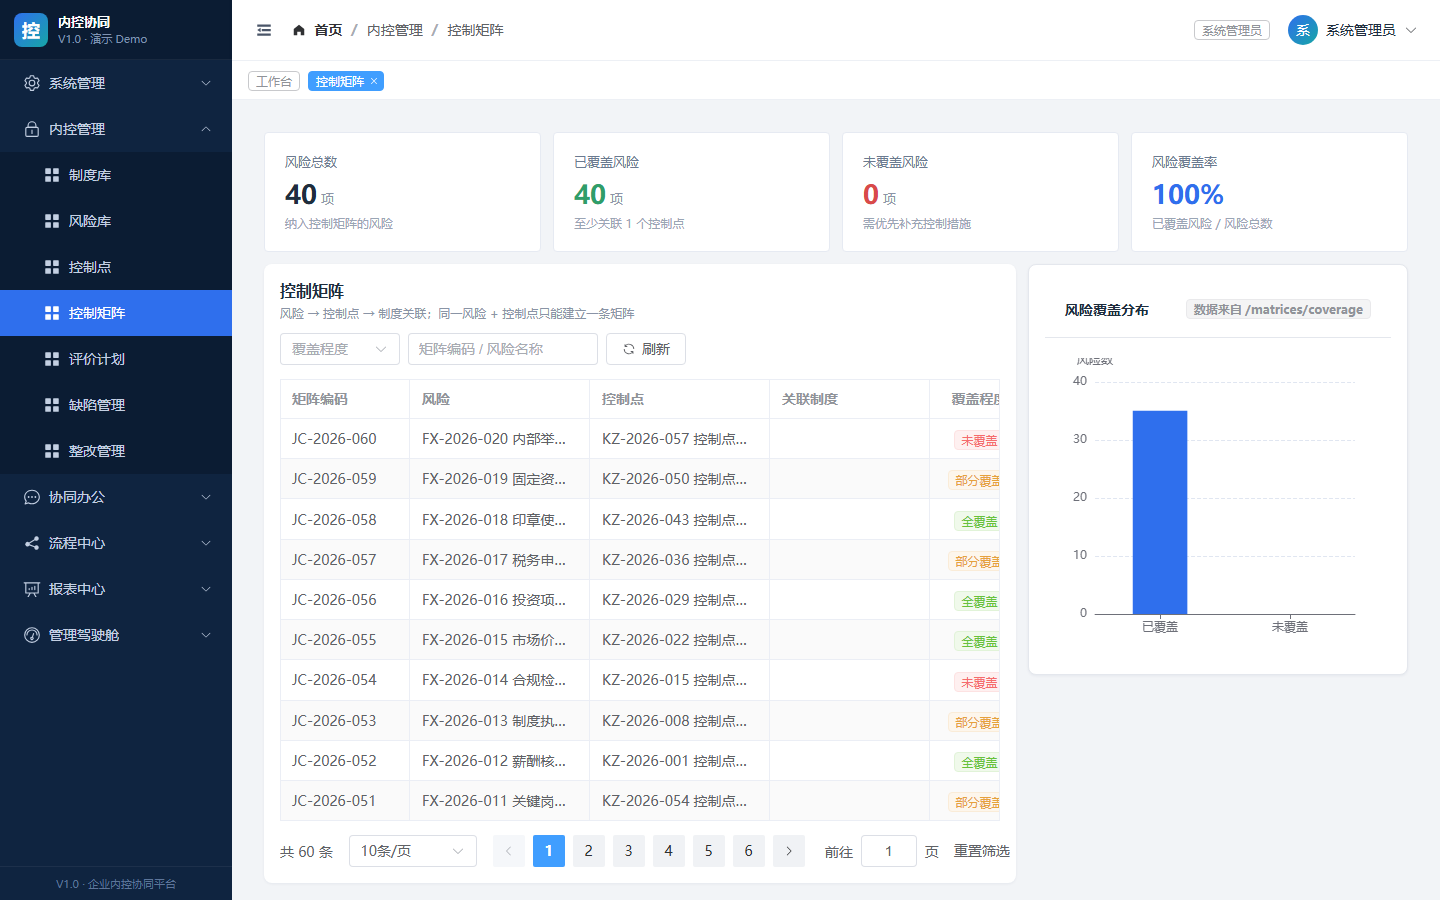
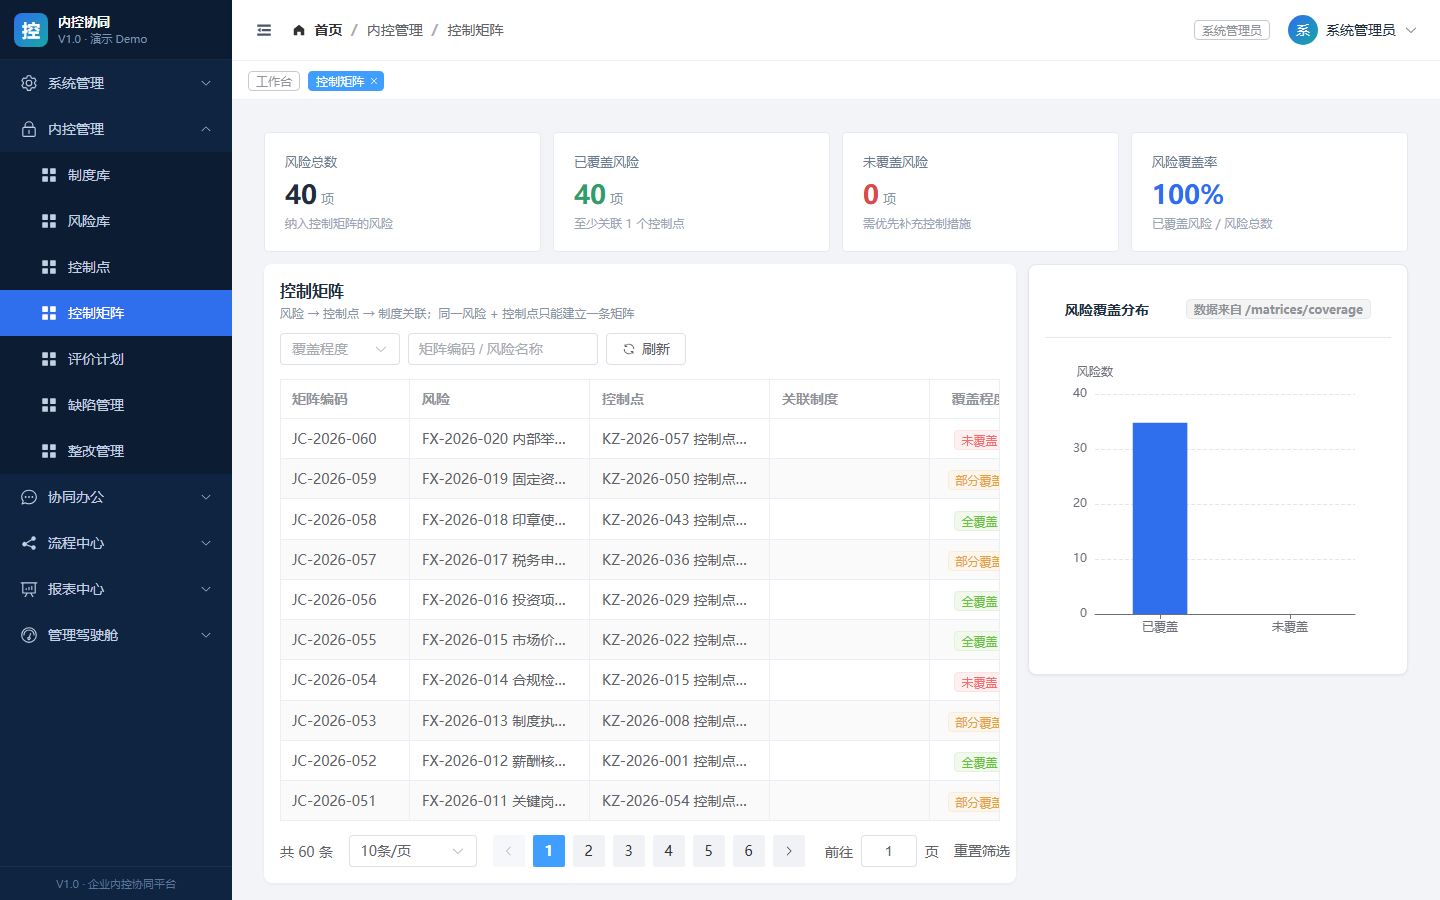
fix(ui): 侧栏菜单图标显式 18px 盒模型防尺寸塌陷；ECharts grid 抬高+legend 居中修重叠；E03 增图标断言并重出 28 张截图

diff --git a/frontend/src/layout/components/Sidebar.vue b/frontend/src/layout/components/Sidebar.vue
@@ -53,7 +53,7 @@ function handleSelect(path: string): void {
         <template v-for="item in menus" :key="item.id">
           <el-sub-menu v-if="isDirectoryMenu(item)" :index="`group-${item.id}`">
             <template #title>
-              <el-icon><component :is="resolveIcon(item.icon)" /></el-icon>
+              <el-icon class="menu-icon"><component :is="resolveIcon(item.icon)" /></el-icon>
               <span>{{ item.name }}</span>
             </template>
             <el-menu-item
@@ -61,12 +61,12 @@ function handleSelect(path: string): void {
               :key="child.id"
               :index="normalizePath(child.path)"
             >
-              <el-icon><component :is="resolveIcon(child.icon)" /></el-icon>
+              <el-icon class="menu-icon"><component :is="resolveIcon(child.icon)" /></el-icon>
               <template #title>{{ child.name }}</template>
             </el-menu-item>
           </el-sub-menu>
           <el-menu-item v-else :index="normalizePath(item.path)">
-            <el-icon><component :is="resolveIcon(item.icon)" /></el-icon>
+            <el-icon class="menu-icon"><component :is="resolveIcon(item.icon)" /></el-icon>
             <template #title>{{ item.name }}</template>
           </el-menu-item>
         </template>
@@ -149,6 +149,30 @@ function handleSelect(path: string): void {
 
 .sidebar-menu {
   border-right: none;
+}
+
+/* 菜单图标：显式给定盒模型，避免主题/浏览器差异下 el-icon 尺寸塌陷导致“图标不显示” */
+.sidebar-menu :deep(.el-icon.menu-icon) {
+  display: inline-flex;
+  flex: 0 0 18px;
+  align-items: center;
+  justify-content: center;
+  width: 18px;
+  height: 18px;
+  margin-right: 10px;
+  font-size: 18px;
+  line-height: 18px;
+  color: inherit;
+}
+
+.sidebar-menu :deep(.el-icon.menu-icon svg) {
+  width: 18px;
+  height: 18px;
+  fill: currentColor;
+}
+
+.sidebar-menu.el-menu--collapse :deep(.el-icon.menu-icon) {
+  margin-right: 0;
 }
 
 .sidebar-menu:not(.el-menu--collapse) {

diff --git a/e2e/tests/e03-menus.spec.ts b/e2e/tests/e03-menus.spec.ts
@@ -40,6 +40,23 @@ for (const { role, expectedMenus, systemChildren, systemExcluded } of ROLES) {
     // 侧栏页脚应为与阶段无关的产品标识
     await expect(page.locator('.sidebar-footer')).toContainText('V1.0');
 
+    // 每个顶级菜单图标都必须真实渲染（svg 尺寸 > 0），防止“图标不显示”样式回归
+    const iconSizes = await page
+      .locator('.sidebar-menu > li > .el-sub-menu__title .el-icon.menu-icon, .sidebar-menu > li > .el-menu-item .el-icon.menu-icon')
+      .evaluateAll((els) =>
+        els.map((el) => {
+          const svg = el.querySelector('svg');
+          const rect = svg?.getBoundingClientRect();
+          return { hasSvg: !!svg, width: rect?.width ?? 0, height: rect?.height ?? 0 };
+        })
+      );
+    expect(iconSizes.length, `${role} 顶级菜单图标数量应等于顶级目录数`).toBe(expectedMenus);
+    for (const [index, icon] of iconSizes.entries()) {
+      expect(icon.hasSvg, `${role} 第 ${index + 1} 个顶级菜单图标应渲染 svg`).toBeTruthy();
+      expect(icon.width, `${role} 第 ${index + 1} 个菜单图标宽度`).toBeGreaterThan(10);
+      expect(icon.height, `${role} 第 ${index + 1} 个菜单图标高度`).toBeGreaterThan(10);
+    }
+
     if (systemExcluded?.length) {
       for (const name of systemExcluded) {
         expect(menuText, `${role} 侧栏不应出现「${name}」`).not.toContain(name);

diff --git a/frontend/src/views/report/defect.vue b/frontend/src/views/report/defect.vue
@@ -49,9 +49,9 @@ function renderDefectChart(): void {
   if (!chart) chart = echarts.init(chartRef.value)
   const statuses = gradeStatus.value
   const option: EChartsOption = {
-    grid: { left: 44, right: 20, top: 44, bottom: 40 },
+    grid: { left: 44, right: 20, top: 62, bottom: 40, containLabel: true },
     tooltip: { trigger: 'axis', axisPointer: { type: 'shadow' } },
-    legend: { top: 8 },
+    legend: { top: 8, left: 'center', itemWidth: 14, itemHeight: 10 },
     xAxis: { type: 'category', data: gradeSeverity.value.map(severityText) },
     yAxis: { type: 'value', name: '缺陷数', minInterval: 1 },
     series: statuses.map((item, index) => ({
@@ -75,9 +75,9 @@ function renderRateChart(): void {
   if (!rectify.value || !rateChartRef.value) return
   if (!rateChart) rateChart = echarts.init(rateChartRef.value)
   const option: EChartsOption = {
-    grid: { left: 44, right: 20, top: 40, bottom: 36 },
+    grid: { left: 44, right: 44, top: 62, bottom: 36, containLabel: true },
     tooltip: { trigger: 'axis' },
-    legend: { top: 6 },
+    legend: { top: 8, left: 'center', itemWidth: 14, itemHeight: 10 },
     xAxis: { type: 'category', data: rectify.value.byMonth.map((item) => item.month) },
     yAxis: [
       { type: 'value', name: '数量', minInterval: 1 },

diff --git a/frontend/src/views/report/task.vue b/frontend/src/views/report/task.vue
@@ -33,7 +33,7 @@ function renderCharts(): void {
   if (chartRef.value) {
     if (!chart) chart = echarts.init(chartRef.value)
     const option: EChartsOption = {
-      grid: { left: 52, right: 24, top: 30, bottom: 44 },
+      grid: { left: 52, right: 24, top: 46, bottom: 44, containLabel: true },
       tooltip: { trigger: 'axis' },
       xAxis: {
         type: 'category',
@@ -63,9 +63,9 @@ function renderCharts(): void {
   if (monthChartRef.value) {
     if (!monthChart) monthChart = echarts.init(monthChartRef.value)
     const option: EChartsOption = {
-      grid: { left: 48, right: 24, top: 36, bottom: 40 },
+      grid: { left: 48, right: 44, top: 62, bottom: 40, containLabel: true },
       tooltip: { trigger: 'axis' },
-      legend: { top: 6 },
+      legend: { top: 8, left: 'center', itemWidth: 14, itemHeight: 10 },
       xAxis: { type: 'category', data: report.byMonth.map((item) => item.month) },
       yAxis: [
         { type: 'value', name: '小时' },

diff --git a/frontend/src/views/dashboard/index.vue b/frontend/src/views/dashboard/index.vue
@@ -161,9 +161,9 @@ let chart: EChartsInstance | null = null
 
 function trendOption(data: DashboardTrend): EChartsOption {
   return {
-    grid: { left: 44, right: 44, top: 48, bottom: 32 },
+    grid: { left: 48, right: 56, top: 64, bottom: 32, containLabel: true },
     tooltip: { trigger: 'axis' },
-    legend: { data: ['新增制度', '新增缺陷', '流程平均耗时'], top: 8, right: 12 },
+    legend: { data: ['新增制度', '新增缺陷', '流程平均耗时'], top: 8, left: 'center', itemWidth: 14, itemHeight: 10 },
     xAxis: { type: 'category', data: data.labels, boundaryGap: true },
     yAxis: [
       { type: 'value', name: '数量', minInterval: 1 },

diff --git a/frontend/src/views/icp/matrix/index.vue b/frontend/src/views/icp/matrix/index.vue
@@ -98,7 +98,7 @@ function renderChart(): void {
   const data = coverageDistribution()
   const option: EChartsOption = {
     tooltip: { trigger: 'axis', axisPointer: { type: 'shadow' } },
-    grid: { left: 8, right: 16, top: 24, bottom: 4, containLabel: true },
+    grid: { left: 8, right: 16, top: 36, bottom: 4, containLabel: true },
     xAxis: { type: 'category', data: data.map((item) => item.label), axisTick: { alignWithLabel: true } },
     yAxis: { type: 'value', name: '风险数', minInterval: 1, splitLine: { lineStyle: { type: 'dashed' } } },
     series: [

diff --git a/frontend/src/views/report/overview.vue b/frontend/src/views/report/overview.vue
@@ -50,7 +50,7 @@ function renderChart(): void {
   if (!data || !chartRef.value) return
   if (!chart) chart = echarts.init(chartRef.value)
   const option: EChartsOption = {
-    grid: { left: 44, right: 20, top: 30, bottom: 70 },
+    grid: { left: 44, right: 20, top: 46, bottom: 70, containLabel: true },
     tooltip: { trigger: 'axis' },
     xAxis: {
       type: 'category',

diff --git a/docs/screenshots/INDEX.md b/docs/screenshots/INDEX.md
@@ -1,6 +1,6 @@
 # M3 最终截图索引（S01–S28）
 
-生成时间：2026-11-04T03:31:34.929Z
+生成时间：2026-11-04T08:38:00.267Z
 
 > 截图取自演示态（`scripts/demo-reset.ps1`）：**60 实例 / 40 待办 / 20 催办**，种子基准日 **2026-10-31**；前端为 4173 预览构建。
 > 制度 52 条（其中 seed-flow 追加 12 条流程政策）、风险 40 条、缺陷 30 条。
